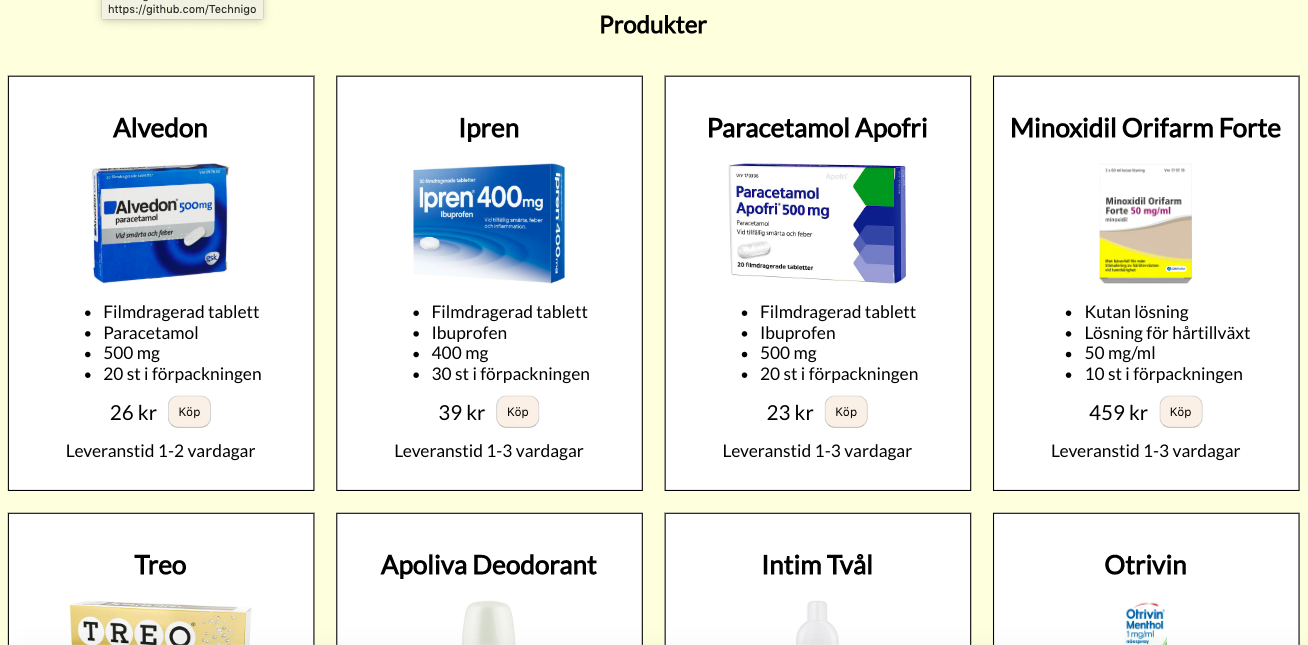
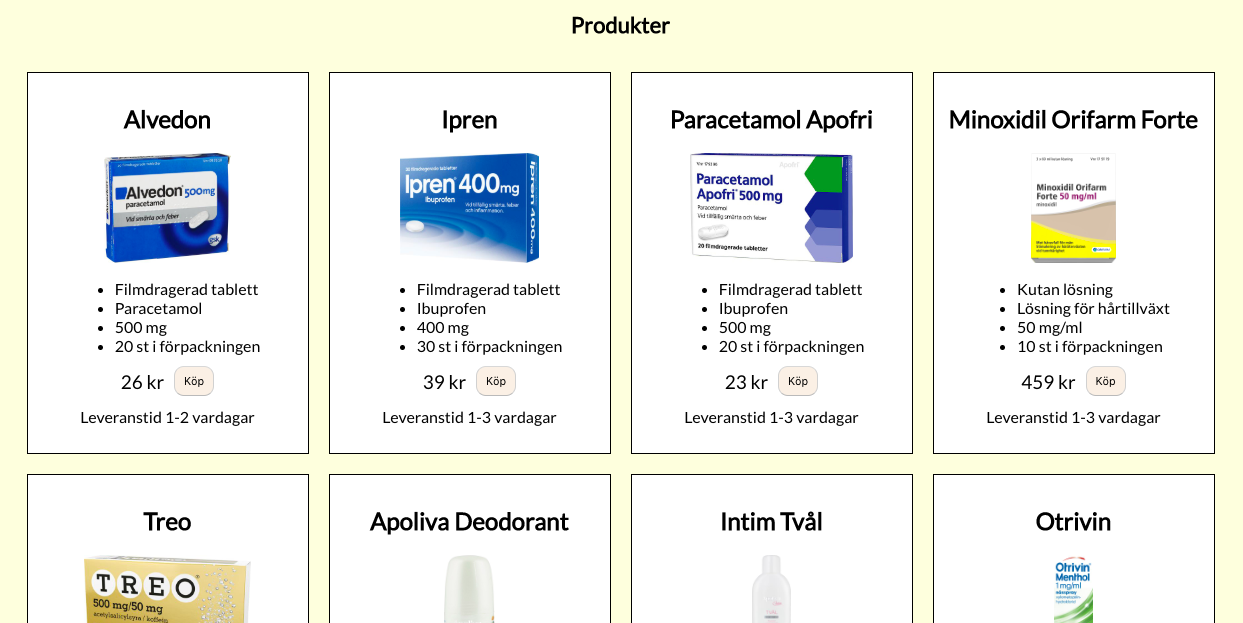
Router works, as well as props

diff --git a/code/src/components/workexample/workexample.js b/code/src/components/workexample/workexample.js
@@ -1,28 +1,29 @@
 import React from "react"
 import "./workexample.css"
+import { HashRouter as Router, Route, Link } from "react-router-dom"
 
 class Workexample extends React.Component {
 
   render() {
     return (
-      <div className="workexample-container">
-        <div className="workexample">
-          <h4>Flight form with CSS written with SASS.</h4>
-          <img src="./images/flightform.jpg" />
+        <div className="workexample-container">
+          <div className="workexample">
+            <h4>Flight form with CSS written with SASS.</h4>
+            <Link to="/projectpage/1"><img src="./images/flightform.jpg" /></Link>
+          </div>
+          <div className="workexample">
+            <h4>Product listing page in React.</h4>
+            <Link to="/projectpage/2"><img src="./images/productpage.png" /></Link>
+          </div>
+          <div className="workexample">
+            <h4>Signup form which posts the data into a HTTPbin.</h4>
+            <Link to="/projectpage/3"><img src="./images/form.png" /></Link>
+          </div>
+          <div className="workexample">
+            <h4>Radio player built in React using Sveriges Radios API:s.</h4>
+            <Link to="/projectpage/4"><img src="./images/radioplayer.png" /></Link>
+          </div>
         </div>
-        <div className="workexample">
-          <h4>Product listing page in React.</h4>
-          <img src="./images/productpage.png" />
-        </div>
-        <div className="workexample">
-          <h4>Signup form which posts the data into a HTTPbin.</h4>
-          <img src="./images/form.png" />
-        </div>
-        <div className="workexample">
-          <h4>Radio player built in React using Sveriges Radios API:s.</h4>
-          <img src="./images/radioplayer.png" />
-        </div>
-      </div>
     )
   }
 

diff --git a/code/src/components/startpage.js b/code/src/components/startpage.js
@@ -1,0 +1,56 @@
+import React from "react"
+import { HashRouter as Router, Route, Link } from "react-router-dom"
+import "./startpage.css"
+import Workexample from "./workexample/workexample.js"
+import Skills from "./skills/skills.js"
+import Studies from "./studies/studies.js"
+import Footer from "./footer/footer.js"
+//import projectsJson from "../projects.json"
+import Projectpage from "./projectpage"
+
+// <div>
+//   {projectsJson.projects.map((project) => {
+//     return <Projectpage title={project.name}
+//           id={project.id}
+//           image={project.image}
+//           title={project.title}
+//           description={project.description}
+//           codespecs={project.codespecs}
+//           toolboxspecs={project.toolboxspecs}
+//           more={project.more}/>
+//         })}
+// </div>
+
+class Startpage extends React.Component {
+
+  render() {
+    return (
+      <div className="landingpage-container">
+        <div className="presentation">
+          <div className="image-div">
+            <img src="./images/snottys.jpg" alt="Louise" />
+            <p>louisebp@gmail.com +46707425010</p>
+          </div>
+          <div className="presentationtext">
+            <h3>Louise Böhlin Pihlsgård</h3>
+            <h1>Frontend developer + Graphic Designer</h1>
+            <p>Hello!</p>
+          </div>
+        </div>
+        <div className="tech-div">
+          <h1>Tech</h1>
+          <h3>480 coding hours  ✨  50+ individual tasks ✨  HTML5, CSS, SASS, Flexbox, Javascript, ES6, JSX, React, Node.js, API:s ✨ 6 sprints with demos together with companies like Volumental, Bonnier, Comprend @ Technigo
+          </h3>
+        </div>
+        <Workexample />
+        <Skills />
+        <Studies />
+        <Footer />
+      </div>
+
+    )
+  }
+
+}
+
+export default Startpage

diff --git a/code/src/components/projectpage.js b/code/src/components/projectpage.js
@@ -1,27 +1,22 @@
 import React from "react"
+import { HashRouter as Router, Route, Link } from "react-router-dom"
 import "./projectpage.css"
-const projectsJson = require("../projects.json")
+import projectsJson from "../projects.json"
 import Footer from "./footer/footer.js"
 
 class Projectpage extends React.Component {
 
   render() {
+
+    const id = this.props.match.params.id
+    const project = projectsJson.projects[id - 1]
+
     return (
       <div className="projectpage-container">
-          {productsJson.projects.map((product) => {
-            return <Product title={product.name}
-                  image={project.image}
-                  title={project.title}
-                  description={project.description}
-                  codespecs={project.codespecs}
-                  toolboxspecs={project.toolboxspecs}
-                  more={project.more}/>
-        })}
-        
         <div className="intro-div">
-          <img src={this.props.image}/>
-          <h1>{this.props.title}</h1>
-          <p>{this.props.description}</p>
+          <img src={project.image}/>
+          <h1>{project.title}</h1>
+          <p>{project.description}</p>
         </div>
         <div className="specs-div">
           <h1>Techs Specs</h1>
@@ -34,13 +29,13 @@ class Projectpage extends React.Component {
                 <ul>
                   <li>{this.props.toolboxspecs}</li>
                 </ul>
-              <h3>Code</h3>
+              <h3>More</h3>
                 <ul>
                   <li>{this.props.morespecs}</li>
                 </ul>
             </div>
-          <Footer />
         </div>
+        <Footer />
       </div>
     )
   }

diff --git a/code/src/components/app.js b/code/src/components/app.js
@@ -1,36 +1,18 @@
 import React from "react"
-import "./app.css"
-import Workexample from "./workexample/workexample.js"
-import Skills from "./skills/skills.js"
-import Studies from "./studies/studies.js"
-import Footer from "./footer/footer.js"
+import { HashRouter as Router, Route, Link } from "react-router-dom"
+import Projectpage from "./projectpage"
+import Startpage from "./startpage"
 
 class App extends React.Component {
 
   render() {
     return (
-      <div className="landingpage-container">
-        <div className="presentation">
-          <div className="image-div">
-            <img src="./images/snottys.jpg" alt="Louise" />
-            <p>louisebp@gmail.com +46707425010</p>
-          </div>
-          <div className="presentationtext">
-            <h3>Louise Böhlin Pihlsgård</h3>
-            <h1>Frontend developer + Graphic Designer</h1>
-            <p>Hello!</p>
-          </div>
+      <Router>
+        <div className="navigation">
+          <Route path="/" exact="true" component={Startpage} />
+          <Route path="/projectpage/:id" exact="true" component={Projectpage} />
         </div>
-        <div className="tech-div">
-          <h1>Tech</h1>
-          <h3>480 coding hours  ✨  50+ individual tasks ✨  HTML5, CSS, SASS, Flexbox, Javascript, ES6, JSX, React, Node.js, API:s ✨ 6 sprints with demos together with companies like Volumental, Bonnier, Comprend @ Technigo
-          </h3>
-        </div>
-        <Workexample />
-        <Skills />
-        <Studies />
-        <Footer />
-      </div>
+      </Router>
 
     )
   }

diff --git a/code/src/components/projectpage.css b/code/src/components/projectpage.css
@@ -19,6 +19,12 @@ p {
   font-weight: lighter;
 }
 
+img {
+  width: 750px;
+  height: auto;
+  object-fit: contain;
+}
+
 .projectpage-container {
   display: flex;
   flex-direction: column;
@@ -30,6 +36,7 @@ p {
 .intro-div {
   width: 750px;
   display: flex;
+  flex-direction: column;
   justify-content: center;
   margin: 20px;
   padding: 30px 0px 60px 0px;

diff --git a/code/src/index.js b/code/src/index.js
@@ -1,6 +1,7 @@
 import React from "react"
 import ReactDOM from "react-dom"
 import App from "./components/app"
+import Startpage from "./components/startpage"
 import "./index.css"
 
 ReactDOM.render(<App />, document.getElementById("root"))
